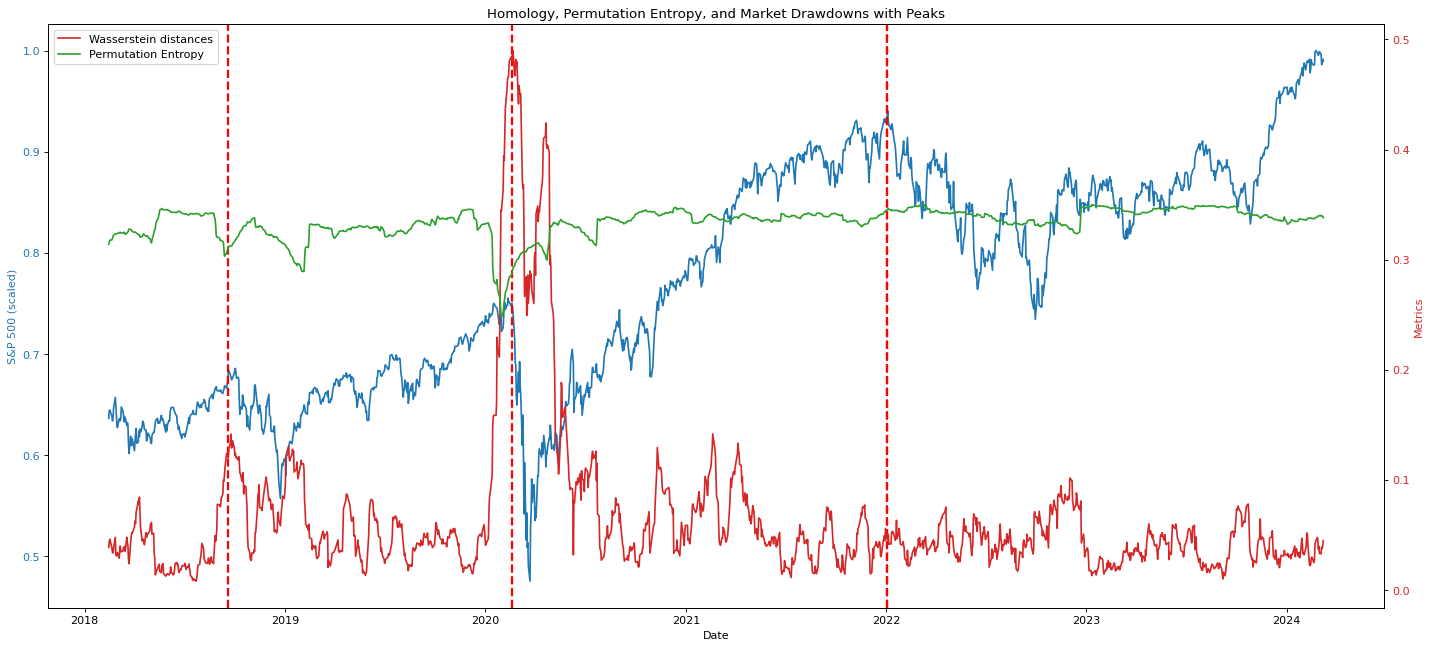
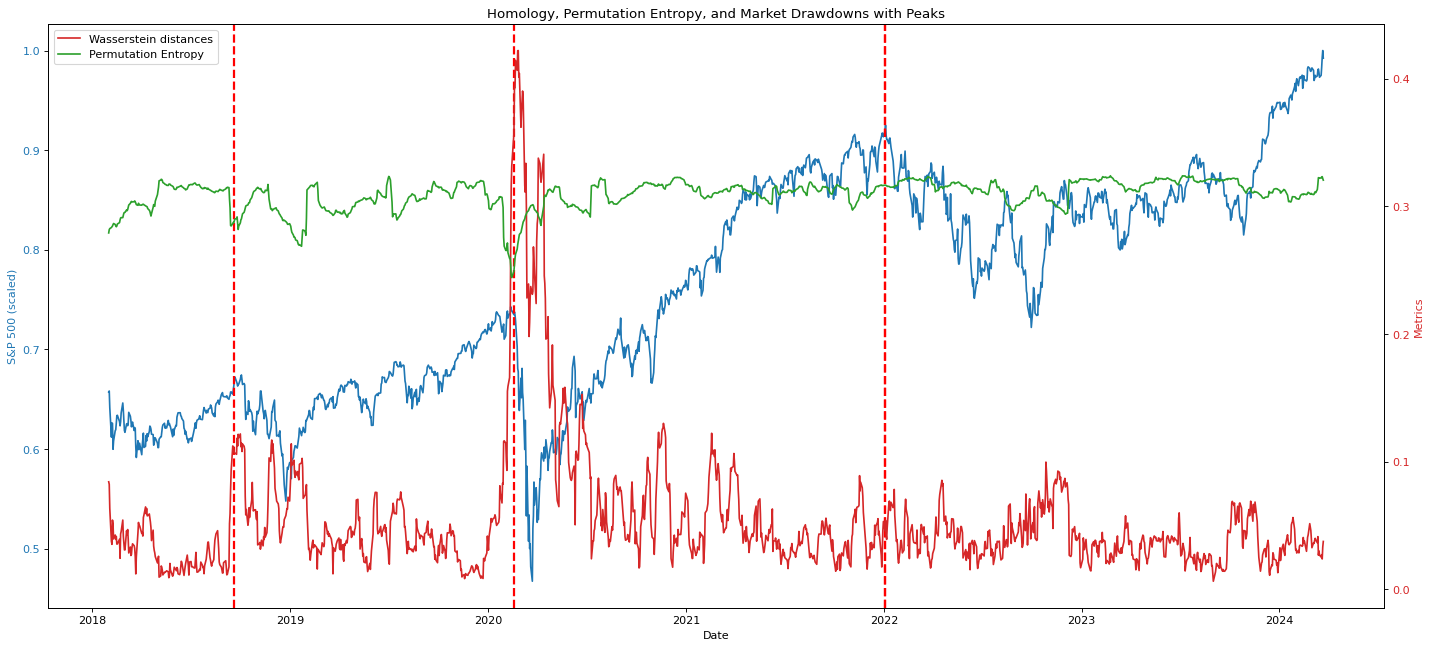
wip perm entropy

diff --git a/homology.py b/homology.py
@@ -28,7 +28,7 @@ r = np.nan_to_num(r)  # Replace NaNs with zero (or you might choose to drop them
 
 # Define and compute Wasserstein distances and permutation entropy
 rips = Rips(maxdim=2)
-w = 30
+w = 20
 n = len(raw_data)-(2*w)+1
 wasserstein_dists = np.zeros((n,1))
 perm_entropy = np.zeros(n)
